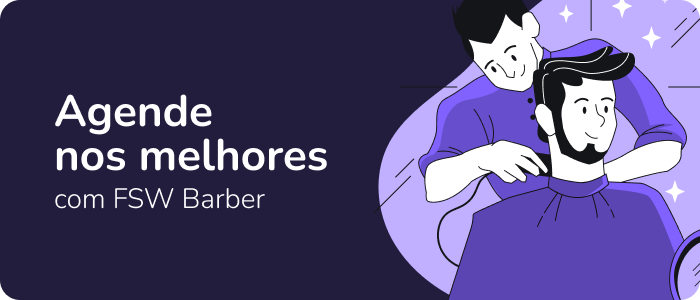
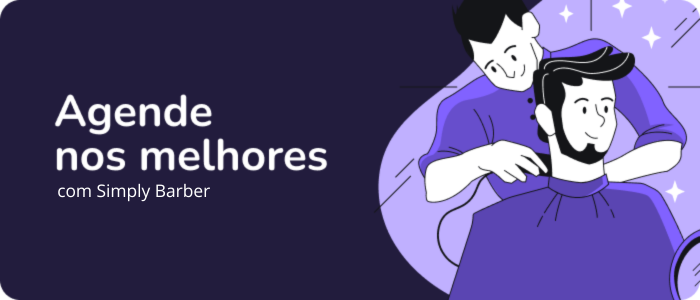
feat(seed): update seed with real Imgur image URLs

diff --git a/prisma/seed.ts b/prisma/seed.ts
@@ -1,89 +1,47 @@
-// prisma/seed.ts
-
 import { PrismaClient, Prisma } from "../generated/prisma";
-// import { hash } from 'bcryptjs'; // Descomente se for usar hash de senha
 
 const prisma = new PrismaClient();
 
-// =========================================================================
-// SUAS URLS EXATAS DO UTF.IO PARA BARBEARIAS E SERVIÇOS
-// =========================================================================
-const allUtfsImages = [
-  "https://utfs.io/f/c97a2dc9-cf62-468b-a851-bfd2bdde775f-16p.png",
-  "https://utfs.io/f/45331760-899c-4b4b-910e-e00babb6ed81-16q.png",
-  "https://utfs.io/f/5832df58-cfd7-4b3f-b102-42b7e150ced2-16r.png",
-  "https://utfs.io/f/7e309eaa-d722-465b-b8b6-76217404a3d3-16s.png",
-  "https://utfs.io/f/178da6b6-6f9a-424a-be9d-a2feb476eb36-16t.png",
-  "https://utfs.io/f/2f9278ba-3975-4026-af46-64af78864494-16u.png",
-  "https://utfs.io/f/988646ea-dcb6-4f47-8a03-8d4586b7bc21-16v.png",
-  "https://utfs.io/f/60f24f5c-9ed3-40ba-8c92-0cd1dcd043f9-16w.png",
-  "https://utfs.io/f/f64f1bd4-59ce-4ee3-972d-2399937eeafc-16x.png",
-  "https://utfs.io/f/e995db6d-df96-4658-99f5-11132fd931e1-17j.png",
-  "https://utfs.io/f/3bcf33fc-988a-462b-8b98-b811ee2bbd71-17k.png",
-  "https://utfs.io/f/5788be0e-2307-4bb4-b603-d9dd237950a2-17l.png",
-  "https://utfs.io/f/6b0888f8-b69f-4be7-a13b-52d1c0c9cab2-17m.png",
-  "https://utfs.io/f/ef45effa-415e-416d-8c4a-3221923cd10f-17n.png",
-  "https://utfs.io/f/ef45effa-415e-416d-8c4a-3221923cd10f-17n.png", // Repetida, como na sua lista
-  "https://utfs.io/f/a55f0f39-31a0-4819-8796-538d68cc2a0f-17o.png",
-  "https://utfs.io/f/5c89f046-80cd-4443-89df-211de62b7c2a-17p.png",
-  "https://utfs.io/f/23d9c4f7-8bdb-40e1-99a5-f42271b7404a-17q.png",
-  "https://utfs.io/f/9f0847c2-d0b8-4738-a673-34ac2b9506ec-17r.png",
-  "https://utfs.io/f/07842cfb-7b30-4fdc-accc-719618dfa1f2-17s.png",
-  "https://utfs.io/f/0522fdaf-0357-4213-8f52-1d83c3dcb6cd-18e.png",
+const barbershopData = [
+  {
+    name: "Barbearia Vintage",
+    address: "Rua da Barbearia, 123",
+    imageUrl: "https://utfs.io/f/c97a2dc9-cf62-468b-a851-bfd2bdde775f-16p.png",
+  },
+  {
+    name: "Barbearia O Carlos",
+    address: "Avenida Vila Grega, 456",
+    imageUrl: "https://utfs.io/f/45331760-899c-4b4b-910e-e00babb6ed81-16q.png",
+  },
+  {
+    name: "Navalha Afiada",
+    address: "Avenida Brasil, 456",
+    imageUrl: "https://utfs.io/f/988646ea-dcb6-4f47-8a03-8d4586b7bc21-16v.png",
+  },
+  {
+    name: "Estilo & Corte",
+    address: "Biquara, 456",
+    imageUrl: "https://utfs.io/f/ef45effa-415e-416d-8c4a-3221923cd10f-17n.png",
+  },
+  {
+    name: "Corte & Estilo",
+    address: "Avenida dos Cortes, 456",
+    imageUrl: "https://utfs.io/f/07842cfb-7b30-4fdc-accc-719618dfa1f2-17s.png",
+  },
 ];
 
-// Nomes e endereços fictícios (mantidos para preencher as 15 barbearias)
-const creativeNames = [
-  "Barbearia Vintage",
-  "Corte & Estilo",
-  "Barba & Navalha",
-  "The Dapper Den",
-  "Cabelo & Cia.",
-  "Machado & Tesoura",
-  "Barbearia Elegance",
-  "Aparência Impecável",
-  "Estilo Urbano",
-  "Estilo Clássico",
-  "O Barbeiro Real",
-  "Espelho Mágico",
-  "Tesoura de Ouro",
-  "Cavalheiros Club",
-  "Barber House Premium",
-];
-
-const addresses = [
-  "Rua da Barbearia, 123",
-  "Avenida dos Cortes, 456",
-  "Praça da Barba, 789",
-  "Travessa da Navalha, 101",
-  "Alameda dos Estilos, 202",
-  "Estrada do Machado, 303",
-  "Avenida Elegante, 404",
-  "Praça da Aparência, 505",
-  "Rua Urbana, 606",
-  "Avenida Clássica, 707",
-  "Beco do Rei, 808",
-  "Praça do Espelho, 909",
-  "Rua da Riqueza, 1010",
-  "Avenida dos Sonhos, 1111",
-  "Praça do Charme, 1212",
-];
-
-// =========================================================================
-// DADOS DE SERVIÇOS (com as URLs utfs.io que você forneceu para serviços)
-// =========================================================================
 const servicesData = [
   {
     name: "Corte de Cabelo",
     description: "Estilo personalizado com as últimas tendências.",
-    price: "50.00",
+    price: 60.0,
     imageUrl:
       "https://utfs.io/f/0ddfbd26-a424-43a0-aaf3-c3f1dc6be6d1-1kgxo7.png",
   },
   {
     name: "Barba",
     description: "Modelagem completa para destacar sua masculinidade.",
-    price: "40.00",
+    price: 40.0,
     imageUrl:
       "https://utfs.io/f/e6bdffb6-24a9-455b-aba3-903c2c2b5bde-1jo6tu.png",
   },
@@ -113,18 +71,16 @@ const servicesData = [
     description: "Hidratação profunda para cabelo e barba.",
     price: 25.0,
     imageUrl:
-      "https://utfs.io/f/8a457cda-f768-411d-a737-cdb23ca6b9b5-b3pegf.png", // Usando a mesma URL do pézinho, ou forneça uma diferente se tiver
+      "https://utfs.io/f/8a457cda-f768-411d-a737-cdb23ca6b9b5-b3pegf.png",
   },
 ];
-
-// =========================================================================
-// LÓGICA PRINCIPAL DO SEEDING
-// =========================================================================
 
 async function main() {
   console.log("Iniciando o processo de seed...");
 
   try {
+    // 1. ORDEM CORRETA DE LIMPEZA DE DADOS
+    // Limpa os "filhos" antes dos "pais" para não quebrar as constraints do banco
     console.log("Limpando dados antigos...");
     await prisma.booking.deleteMany();
     await prisma.barbershopService.deleteMany();
@@ -132,66 +88,60 @@ async function main() {
     await prisma.user.deleteMany();
     console.log("Dados antigos limpos com sucesso.");
 
+    // 2. CRIAR UM USUÁRIO PARA SER O DONO DAS BARBEARIAS
     console.log("Criando usuário dono...");
     const ownerUser = await prisma.user.create({
       data: {
         name: "Admin FSW",
         email: "admin@fswbarber.com",
-        phone: "5588999999999",
       },
     });
     console.log(`Usuário dono criado com ID: ${ownerUser.id}`);
 
-    console.log("Criando novas barbearias e seus serviços...");
-    const NUMBER_OF_BARBERSHOPS = 15;
-    const numberOfAvailableImages = allUtfsImages.length; // Total de URLs que você forneceu
-
-    for (let i = 0; i < NUMBER_OF_BARBERSHOPS; i++) {
-      // Pega uma URL da lista, ciclando se necessário
-      const imageUrlForBarbershop = allUtfsImages[i % numberOfAvailableImages];
-      const name = creativeNames[i % creativeNames.length]; // Cicla pelos nomes
-      const address = addresses[i % addresses.length]; // Cicla pelos endereços
-
+    // 3. CRIAR AS BARBEARIAS E CONECTÁ-LAS AO DONO
+    console.log("Criando novas barbearias e serviços...");
+    for (const shop of barbershopData) {
       const barbershop = await prisma.barbershop.create({
         data: {
-          name: `${name} #${i + 1}`, // Adiciona um número para diferenciar
-          address: address,
-          imageUrl: imageUrlForBarbershop,
+          name: shop.name,
+          address: shop.address,
+          imageUrl: shop.imageUrl,
           description:
             "Lorem ipsum dolor sit amet, consectetur adipiscing elit. Nullam euismod, nisl eget aliquam ultricies, nunc nisl aliquet nunc, quis aliquam nisl nisl eu nisl.",
-          phone: ["(11) 99999-9999", "(11) 99999-9999"],
+          phone: ["(11) 98765-4321"],
+
+          // ==========================================================
+          // A MUDANÇA MAIS IMPORTANTE ESTÁ AQUI
+          // Conectamos a barbearia que está sendo criada ao usuário 'dono'
           owner: {
             connect: {
               id: ownerUser.id,
             },
           },
+          // ==========================================================
         },
       });
 
-      // Cria os serviços para cada barbearia, usando as URLs de serviço que você forneceu
-      for (let j = 0; j < servicesData.length; j++) {
-        const service = servicesData[j];
+      // Criar os serviços para cada barbearia (sua lógica aqui está ótima)
+      for (const service of servicesData) {
         await prisma.barbershopService.create({
           data: {
             name: service.name,
             description: service.description,
             price: new Prisma.Decimal(service.price),
-            imageUrl: service.imageUrl, // Usa a URL específica do serviço
+            imageUrl: service.imageUrl,
             barbershopId: barbershop.id,
           },
         });
       }
-      console.log(
-        `Barbearia "${barbershop.name}" e seus ${servicesData.length} serviços criados.`,
-      );
     }
 
+    // 4. (BÔNUS) CRIAR UM CLIENTE E UM AGENDAMENTO DE EXEMPLO
     console.log("Criando dados de exemplo para agendamento...");
     const clientUser = await prisma.user.create({
       data: {
         name: "Miguel Cliente",
         email: "miguel@cliente.com",
-        phone: "55889981412297",
       },
     });
 
@@ -209,11 +159,6 @@ async function main() {
           date: new Date("2025-07-15T10:00:00.000Z"),
         },
       });
-      console.log("Agendamento de exemplo criado.");
-    } else {
-      console.log(
-        "Não foi possível criar agendamento de exemplo (barbearia/serviço/cliente não encontrados).",
-      );
     }
 
     console.log("Seed executado com sucesso!");
@@ -226,4 +171,5 @@ async function main() {
   }
 }
 
+// Executa a função principal
 main();
